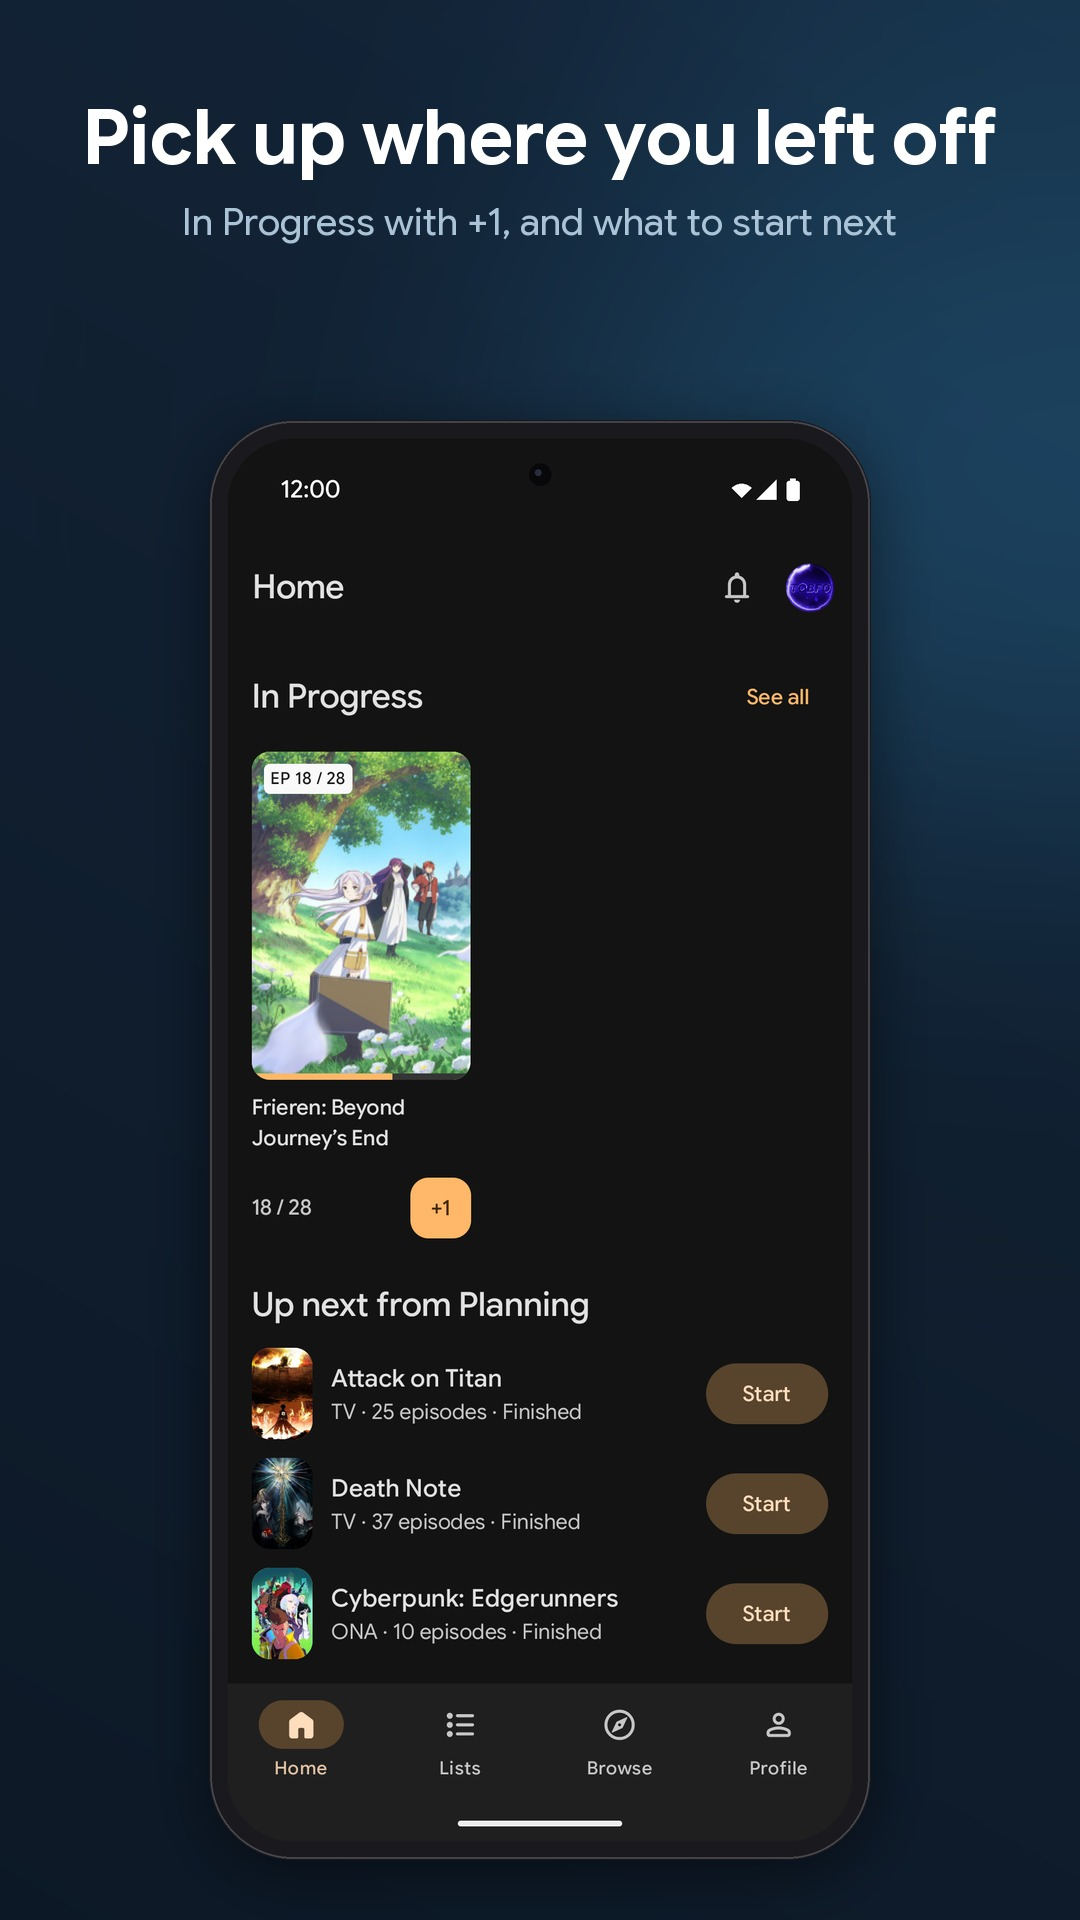
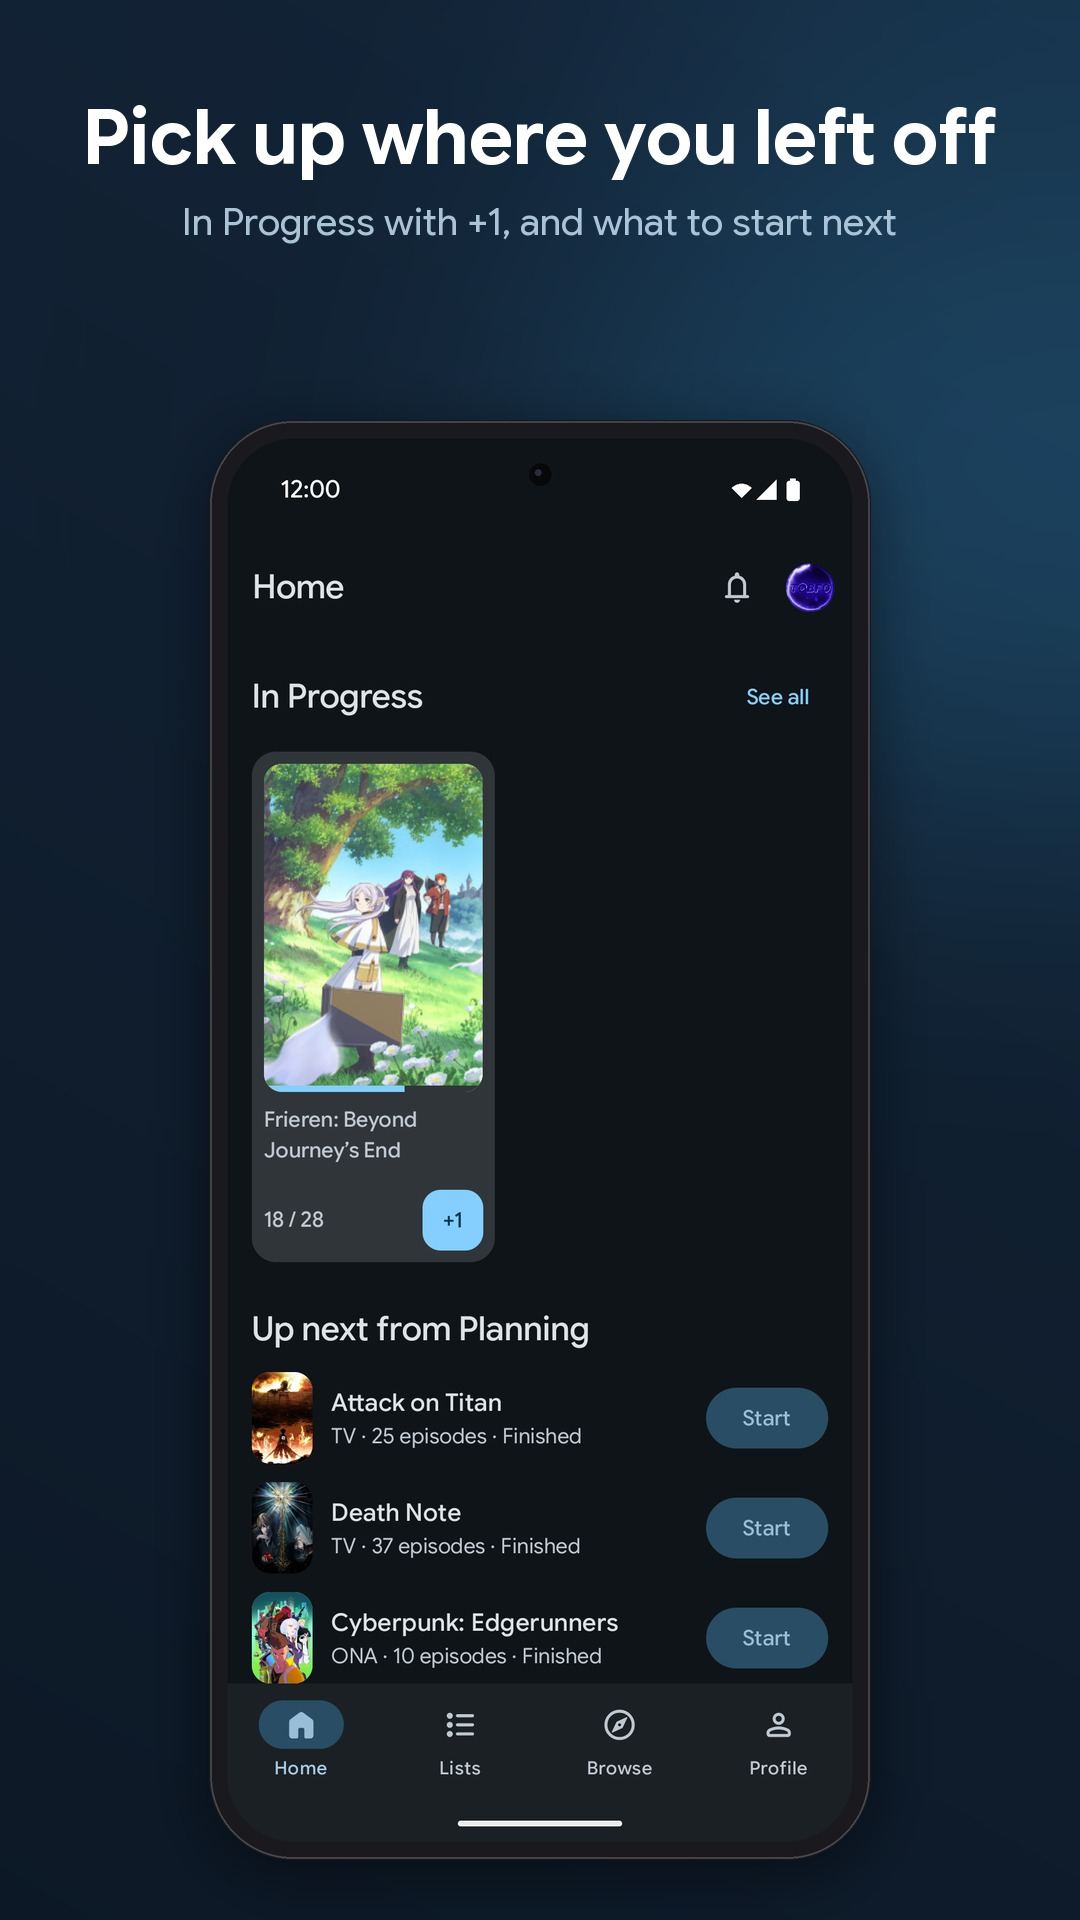
docs: new product images, English, AniList blue, dark
Home, lists, Frieren detail and share card from the Pixel, widgets and
one tablet shot from the emulator. The light, browse and profile images
are gone.

Claude-Session: https://claude.ai/code/session_01JtoXaVDPCw5tihcXkXiEho

Changed region(s): [[0.2139, 0.375, 0.5806, 0.9375], [0.6417, 0.6875, 0.7639, 0.875], [0.7028, 0.3438, 0.7639, 0.375]]

diff --git a/docs/images/tools/make_images.py b/docs/images/tools/make_images.py
@@ -151,9 +151,10 @@ def logo_tile(size, light=True):
 
 # ---------------------------------------------------------------- inputs
 
-PHONE = ['home', 'lists', 'detail', 'share', 'browse', 'profile']
-TABLET = [('detail', 'light'), ('detail', 'dark'), ('lists', 'light'), ('lists', 'dark'), ('browse', 'light'),
-          ('login', 'light')]
+PHONE = ['home', 'lists', 'detail', 'share']
+
+# The row of screenshots in the README.
+README_ROW = ['home', 'lists', 'detail', 'widgets']
 
 
 def load(name):
@@ -166,48 +167,34 @@ def main():
 
     clean = {}
     for n in PHONE:
-        for m in ('light', 'dark'):
-            im = clean_status_bar(load(f'phone_{n}_{m}'), 'phone')
-            clean[f'phone_{n}_{m}'] = im
-            im.save(os.path.join(OUT, 'screenshots/phone', f'{n}-{m}.jpg'), quality=90, optimize=True)
-    for n, m in TABLET:
-        im = clean_status_bar(load(f'tablet_{n}_{m}'), 'tablet')
-        clean[f'tablet_{n}_{m}'] = im
-        im.save(os.path.join(OUT, 'screenshots/tablet', f'{n}-{m}.jpg'), quality=90, optimize=True)
-    for m in ('light', 'dark'):
-        for i in (1, 2):
-            im = clean_status_bar(load(f'w_{m}_{i}'), 'emu')
-            clean[f'widgets{i}_{m}'] = im
-        clean[f'widgets1_{m}'].save(os.path.join(OUT, 'screenshots/widgets', f'home-screen-{m}.jpg'), quality=90,
-                                    optimize=True)
+        im = clean_status_bar(load(f'phone_{n}_dark'), 'phone')
+        clean[n] = im
+        im.save(os.path.join(OUT, 'screenshots/phone', f'{n}.jpg'), quality=90, optimize=True)
+    clean['tablet'] = clean_status_bar(load('tablet_detail_dark'), 'tablet')
+    clean['tablet'].save(os.path.join(OUT, 'screenshots/tablet', 'detail.jpg'), quality=90, optimize=True)
+    widgets = [clean_status_bar(load(f'w_dark_{i}'), 'emu') for i in (1, 2)]
+    widgets[0].save(os.path.join(OUT, 'screenshots/widgets', 'home-screen.jpg'), quality=90, optimize=True)
+    clean['widgets'] = widgets[0]
 
-    # Framed, transparent images for the README gallery.
+    # Framed, transparent images (the README row is saved; all of them go into the banner and store images).
     framed = {}
     for key, im in clean.items():
-        kind = 'tablet' if key.startswith('tablet') else 'phone'
-        f = frame(im, kind)
-        framed[key] = f
-        if key.startswith('widgets2'):
-            continue
-        name = key.replace('phone_', '').replace('tablet_', 'tablet-').replace('widgets1_', 'widgets_').replace('_', '-')
-        width = 1000 if kind == 'tablet' else 400
-        scaled(f, width=width).save(os.path.join(OUT, 'framed', f'{name}.webp'), quality=88, method=6)
+        kind = 'tablet' if key == 'tablet' else 'phone'
+        framed[key] = frame(im, kind)
+        if key in README_ROW:
+            scaled(framed[key], width=400).save(os.path.join(OUT, 'framed', f'{key}.webp'), quality=88, method=6)
 
-    # Widget cards on their own (for the store image).
-    cards = {}
-    for m in ('light', 'dark'):
-        a, b = clean[f'widgets1_{m}'], clean[f'widgets2_{m}']
-        boxes = [(a, (78, 201, 1266, 951)), (a, (78, 999, 1266, 1749)), (b, (78, 201, 1266, 951))]
-        cards[m] = []
-        for src, box in boxes:
-            c = src.crop(box).convert('RGBA')
-            c.putalpha(rounded_mask(c.size, 72))
-            cards[m].append(c)
+    # The three widget cards on their own, for the store image.
+    boxes = [(widgets[0], (78, 201, 1266, 951)), (widgets[0], (78, 999, 1266, 1749)), (widgets[1], (78, 201, 1266, 951))]
+    cards = []
+    for src, box in boxes:
+        c = src.crop(box).convert('RGBA')
+        c.putalpha(rounded_mask(c.size, 72))
+        cards.append(c)
 
     banner(framed)
     feature_graphic(framed)
     store_images(framed, cards)
-    widgets_showcase(cards)
 
 
 def banner(framed):
@@ -216,16 +203,14 @@ def banner(framed):
     glow(c, (980, 260), 330, BLUE, 70)
     glow(c, (150, 600), 260, BLUE_DEEP, 60)
     d = ImageDraw.Draw(c)
-    tile = logo_tile(104)
-    c.alpha_composite(tile, (84, 104))
+    c.alpha_composite(logo_tile(104), (84, 104))
     d.text((80, 318), 'Tsuzuki', font=font(92, 650), fill=(255, 255, 255), anchor='ls')
     d.text((86, 372), 'for AniList', font=font(36, 500), fill=(165, 214, 245), anchor='ls')
     d.text((86, 452), 'Keep track of what comes next.', font=font(30, 450), fill=(225, 236, 245), anchor='ls')
     d.text((86, 494), 'A native Android client, made with', font=font(24, 400), fill=(150, 170, 190), anchor='ls')
     d.text((86, 528), 'Jetpack Compose and Material 3.', font=font(24, 400), fill=(150, 170, 190), anchor='ls')
-    phones = [('phone_detail_light', 660, 120, 380), ('phone_home_dark', 900, 70, 430), ('phone_browse_light', 1100, 150, 360)]
-    order = [phones[0], phones[2], phones[1]]
-    for key, x, y, h in order:
+    # Back phones first, the middle one on top.
+    for key, x, y, h in [('detail', 660, 120, 380), ('share', 1100, 150, 360), ('home', 900, 70, 430)]:
         p = shadow(scaled(framed[key], height=h * 2), 18, 10, 110)
         p = scaled(p, height=round(p.height / 2))
         c.alpha_composite(p, (x - p.width // 2 + 60, y))
@@ -241,7 +226,7 @@ def feature_graphic(framed):
     d.text((60, 262), 'Tsuzuki', font=font(76, 650), fill=(255, 255, 255), anchor='ls')
     d.text((66, 308), 'for AniList', font=font(30, 500), fill=(165, 214, 245), anchor='ls')
     d.text((66, 372), 'Keep track of what comes next.', font=font(26, 450), fill=(225, 236, 245), anchor='ls')
-    for key, x, y, h in [('phone_detail_light', 640, 70, 420), ('phone_home_dark', 840, 40, 460)]:
+    for key, x, y, h in [('detail', 640, 70, 420), ('home', 840, 40, 460)]:
         p = shadow(scaled(framed[key], height=h * 2), 16, 8, 110)
         p = scaled(p, height=round(p.height / 2))
         c.alpha_composite(p, (x - p.width // 2 + 40, y))
@@ -249,28 +234,22 @@ def feature_graphic(framed):
 
 
 CAPTIONS = [
-    ('phone_home_dark', 'Pick up where you left off', 'In Progress with +1, and what to start next'),
-    ('phone_lists_light', 'Your lists, offline first', 'Changes are saved at once and sent when you are online'),
-    ('phone_detail_dark', 'Everything about a title', 'Score, ranking, characters, staff and where to watch'),
-    ('phone_share_light', 'Share your progress', 'As a story or a square image'),
-    ('phone_browse_dark', 'Find what comes next', 'Search with filters, trending and this season'),
-    ('phone_profile_light', 'Your profile at a glance', 'Stats, activity history and favourites'),
+    ('home', 'Pick up where you left off', 'In Progress with +1, and what to start next'),
+    ('lists', 'Your lists, offline first', 'Changes are saved at once and sent when you are online'),
+    ('detail', 'Everything about a title', 'Score, ranking, characters, staff and where to watch'),
+    ('share', 'Share your progress', 'As a story or a square image'),
 ]
 
 
-def promo(screen_framed, title, subtitle, size, light_bg, device_height, top):
+def promo(screen_framed, title, subtitle, size, device_height, top):
     W, H = size
-    if light_bg:
-        c = gradient((W, H), (222, 240, 252), (190, 225, 248))
-        tcol, scol = (11, 22, 34), (52, 72, 92)
-    else:
-        c = gradient((W, H), NAVY2, NAVY)
-        glow(c, (int(W * 0.8), int(H * 0.25)), int(W * 0.45), BLUE, 60)
-        tcol, scol = (255, 255, 255), (170, 195, 215)
+    c = gradient((W, H), NAVY2, NAVY)
+    glow(c, (int(W * 0.8), int(H * 0.25)), int(W * 0.45), BLUE, 60)
     d = ImageDraw.Draw(c)
     s = min(W, H) / 1080 if W > H else W / 1080
-    d.text((W // 2, int(top * 0.42)), title, font=font(int(76 * s), 650), fill=tcol, anchor='mm')
-    d.text((W // 2, int(top * 0.42) + int(84 * s)), subtitle, font=font(int(38 * s), 450), fill=scol, anchor='mm')
+    d.text((W // 2, int(top * 0.42)), title, font=font(int(76 * s), 650), fill=(255, 255, 255), anchor='mm')
+    d.text((W // 2, int(top * 0.42) + int(84 * s)), subtitle, font=font(int(38 * s), 450), fill=(170, 195, 215),
+           anchor='mm')
     p = shadow(scaled(screen_framed, height=device_height), int(30 * s), int(14 * s), 120)
     c.alpha_composite(p, ((W - p.width) // 2, top))
     return c.convert('RGB')
@@ -278,8 +257,9 @@ def promo(screen_framed, title, subtitle, size, light_bg, device_height, top):
 
 def store_images(framed, cards):
     for i, (key, title, sub) in enumerate(CAPTIONS, start=1):
-        img = promo(framed[key], title, sub, (1080, 1920), key.endswith('_light'), 1440, 330)
-        img.save(os.path.join(OUT, 'store', f'phone-{i:02d}.jpg'), quality=92, optimize=True)
+        promo(framed[key], title, sub, (1080, 1920), 1440, 330).save(
+            os.path.join(OUT, 'store', f'phone-{i:02d}.jpg'), quality=92, optimize=True
+        )
     # Widgets: the three cards stacked.
     W, H = 1080, 1920
     c = gradient((W, H), NAVY2, NAVY)
@@ -289,33 +269,15 @@ def store_images(framed, cards):
     d.text((W // 2, 223), 'In Progress with +1, the next episode, friends', font=font(38, 450),
            fill=(170, 195, 215), anchor='mm')
     y = 320
-    for card in cards['light'][:1] + cards['dark'][1:2] + cards['light'][2:3]:
+    for card in cards:
         card = scaled(card, width=740)
         h = card.height
-        card = shadow(card, 24, 10, 110)
-        c.alpha_composite(card, ((W - card.width) // 2, y - 72))
+        shadowed = shadow(card, 24, 10, 110)
+        c.alpha_composite(shadowed, ((W - shadowed.width) // 2, y - 72))
         y += h + 56
     c.convert('RGB').save(os.path.join(OUT, 'store', f'phone-{len(CAPTIONS) + 1:02d}.jpg'), quality=92, optimize=True)
-    # Tablet promos.
-    for i, (key, title, sub) in enumerate([
-        ('tablet_detail_light', 'Made for big screens too', 'Lists and details side by side on tablets and foldables'),
-        ('tablet_lists_dark', 'Light, dark and Material You', 'Your wallpaper colours, or AniList blue'),
-    ], start=1):
-        img = promo(framed[key], title, sub, (1920, 1080), key.endswith('_light'), 740, 250)
-        img.save(os.path.join(OUT, 'store', f'tablet-{i:02d}.jpg'), quality=92, optimize=True)
-
-
-def widgets_showcase(cards):
-    for m in ('light', 'dark'):
-        W = 1300
-        gap = 36
-        cs = [scaled(cd, width=600) for cd in cards[m]]
-        H = cs[0].height + cs[1].height + gap * 3
-        c = Image.new('RGBA', (W, H), (0, 0, 0, 0))
-        c.alpha_composite(cs[0], (gap, gap))
-        c.alpha_composite(cs[1], (gap, gap * 2 + cs[0].height))
-        c.alpha_composite(cs[2], (W - 600 - gap, gap))
-        c.save(os.path.join(OUT, 'framed', f'widgets-cards-{m}.webp'), quality=90, method=6)
+    promo(framed['tablet'], 'Made for big screens too', 'Lists and details side by side on tablets and foldables',
+          (1920, 1080), 740, 250).save(os.path.join(OUT, 'store', 'tablet-01.jpg'), quality=92, optimize=True)
 
 
 if __name__ == '__main__':

diff --git a/docs/images/README.md b/docs/images/README.md
@@ -1,22 +1,20 @@
 # Images
 
-Product images for the README and a later Play Store listing (made 2026-10-01).
+Product images for the README and a later Play Store listing (made 2026-10-01). One look throughout: the app in English, AniList blue, dark theme.
 
-| Folder | What |
+| Path | What |
 |---|---|
 | `banner.png` | README banner, 1280 x 640 (also fits GitHub's social preview). |
-| `framed/` | Screenshots in a device frame with a transparent background (WebP), for the README gallery. |
-| `screenshots/phone/` | Plain phone screenshots, light and dark, from Tobias's account on a Pixel 9 (1080 x 2424). |
-| `screenshots/tablet/` | Plain tablet screenshots from the emulator as a 2560 x 1600 tablet (guest mode, and the debug sample data for Lists). |
-| `screenshots/widgets/` | The widgets on the emulator's home screen, with the debug sample data. |
-| `store/` | Play Store assets: `feature-graphic.png` (1024 x 500), phone images with captions (1080 x 1920) and tablet images (1920 x 1080). |
+| `framed/` | Screenshots in a device frame with a transparent background (WebP), for the row in the README: `home`, `lists`, `detail`, `widgets`. |
+| `screenshots/` | The same screenshots without a frame: phone (Tobias's account on a Pixel 9, 1080 x 2424), tablet (emulator as a 2560 x 1600 tablet, guest mode) and widgets (emulator, debug sample data). |
+| `store/` | Play Store assets: `feature-graphic.png` (1024 x 500), phone images with captions (1080 x 1920) and one tablet image (1920 x 1080). |
 
-Every status bar is replaced by a neutral one (12:00, Wi-Fi, signal, full battery). No other users appear: the phone shots avoid the feed and the Social tabs, and the sample friends in the widget data have made-up names.
+Every status bar is replaced by a neutral one (12:00, Wi-Fi, signal, full battery). No other AniList users appear: the phone shots avoid the feed and the Social tabs, and the sample friends in the widget data have made-up names.
 
 ## Making them again
 
-1. Phone: on a device with your own account, take `adb exec-out screencap -p` shots named `phone_<home|lists|detail|share|browse|profile>_<light|dark>.png`, switching only the system theme (`adb shell cmd uimode night yes|no`). Long-press a list row to open the detail page (a tap opens the list editor).
-2. Tablet: on the emulator, `adb shell wm size 2560x1600`, `wm density 320`, `settings put system user_rotation 0`; save `tablet_<detail|lists|browse|login>_<mode>.png`. Reset with `wm size reset; wm density reset`.
-3. Widgets: the debug build's `WidgetSampleDataActivity` and `PinWidgetActivity` (see `CLAUDE.md`, Widgets). Its sample session has a fake token, so keep the app away from the API: run `python docs/images/tools/cdn_only_proxy.py` and point the emulator at it (`adb shell settings put global http_proxy 10.0.2.2:8888`); it lets only AniList's image CDN through, so covers load and no request reaches the API. Save the two home pages as `w_<mode>_1.png` (In Progress, Next episode) and `w_<mode>_2.png` (Friends' activity). Remove the proxy with `adb shell settings delete global http_proxy`.
+1. Phone: on a device with your own account, the app in English, AniList blue and the dark theme, take `adb exec-out screencap -p` shots named `phone_<home|lists|detail|share>_dark.png`. Long-press a list row to open the detail page (a tap opens the list editor).
+2. Tablet: on the emulator, `adb shell wm size 2560x1600`, `wm density 320`, `settings put system user_rotation 0`; guest mode, Browse, search, open a title; save `tablet_detail_dark.png`. Reset with `wm size reset; wm density reset`.
+3. Widgets: the debug build's `WidgetSampleDataActivity` and `PinWidgetActivity` (see `CLAUDE.md`, Widgets). Its sample session has a fake token, so keep the app away from the API: run `python docs/images/tools/cdn_only_proxy.py` and point the emulator at it (`adb shell settings put global http_proxy 10.0.2.2:8888`); it lets only AniList's image CDN through. Open Home and Lists once so the covers are cached, switch on airplane mode (otherwise the widgets' own updates fail against the proxy and the widgets say "Offline"), then pin the widgets. Save the two home pages as `w_dark_1.png` (In Progress, Next episode) and `w_dark_2.png` (Friends' activity). Afterwards: `settings put global http_proxy :0`, `settings delete global global_http_proxy_host` and `global_http_proxy_port`.
 4. Render the logo glyph into the same folder: `python docs/images/tools/logo.py <folder>/glyph_white.png 600 '#ffffff'` and `... glyph_navy.png 600 '#0b2a3d'` (needs matplotlib).
 5. `python docs/images/tools/make_images.py <folder>` (needs Pillow) writes everything in this folder.
